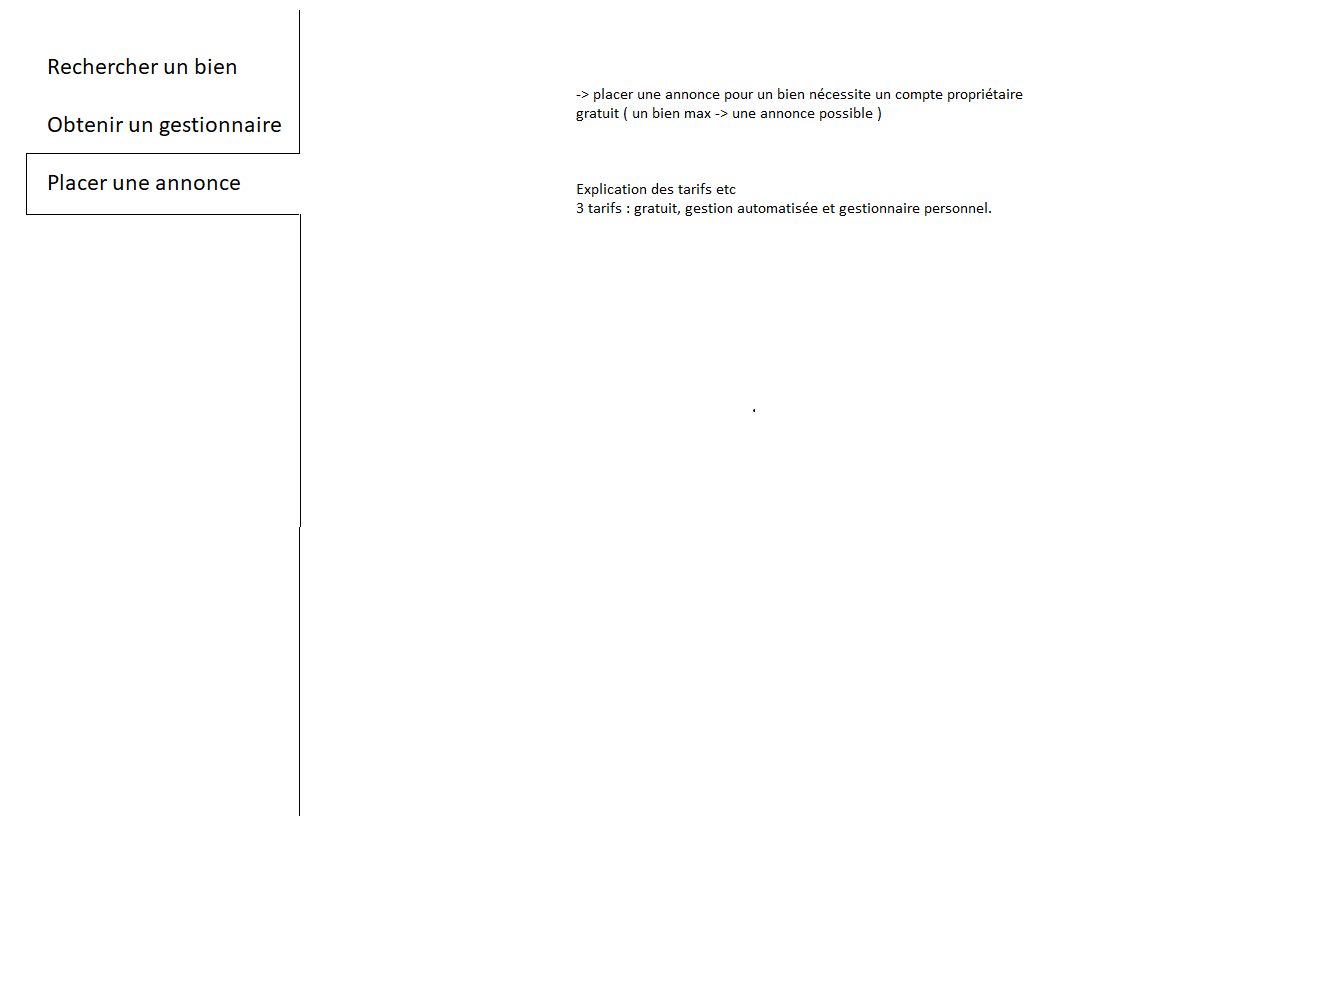
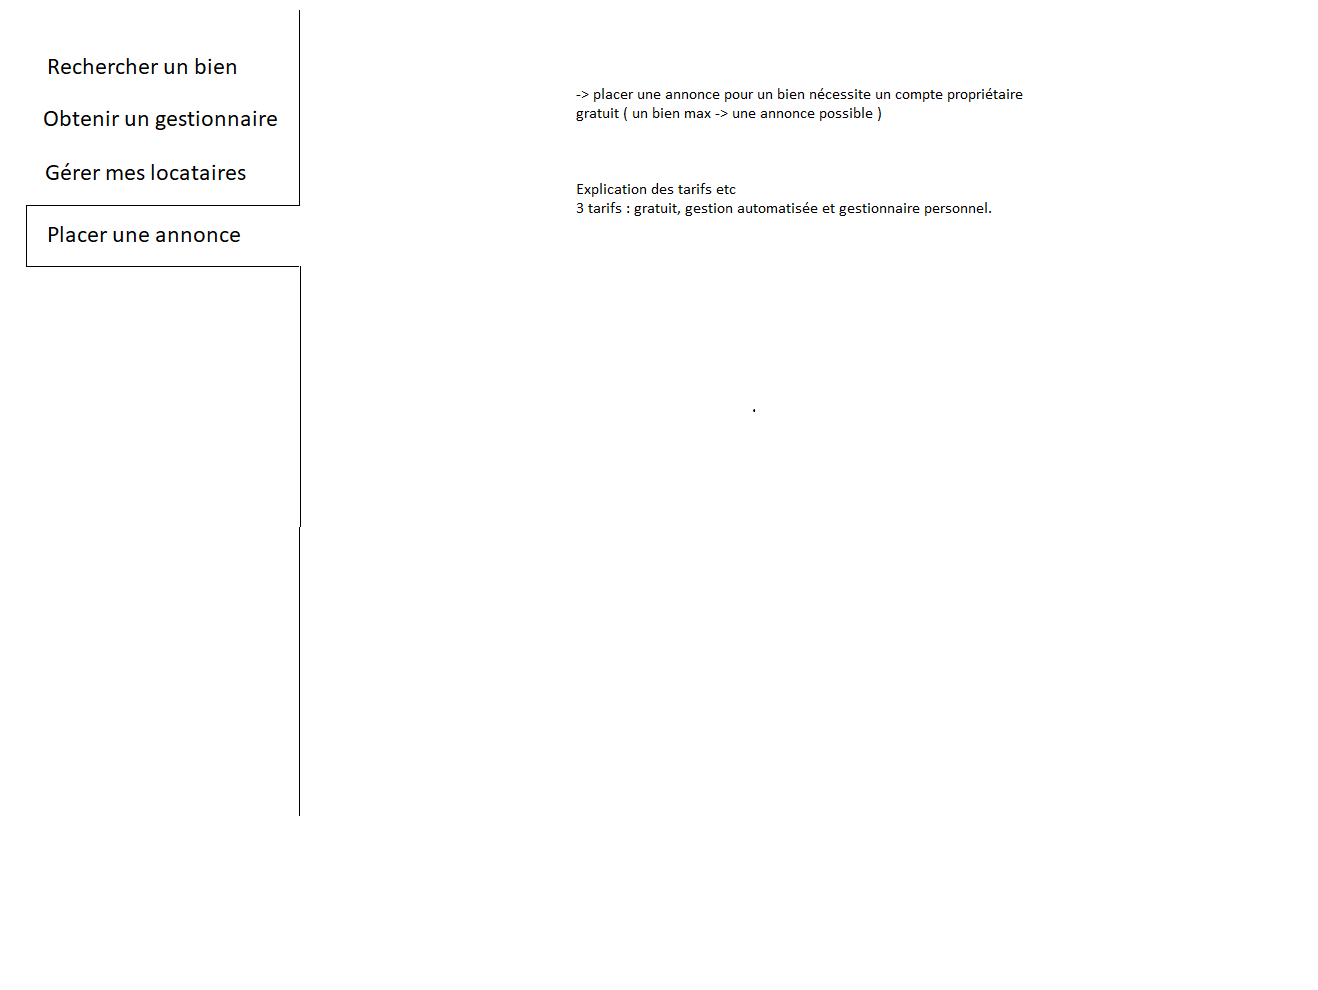
divers

Changed region(s): [[0.0311, 0.0909, 0.2178, 0.2424]]

diff --git a/windows_home/home.html b/windows_home/home.html
@@ -1,0 +1,66 @@
+<!doctype html>
+<html lang="fr">
+<head>
+  <meta charset="utf-8">
+  <title>Propr.io</title>
+  <script type="text/javascript">
+
+   var search_tracker = 'search';
+
+   function change_search(){
+   var image = document.getElementById('search');
+   if(search_tracker=='search'){
+   image.src='img/home/map.png';
+   search_tracker='map';
+   }
+   else{
+   image.src='img/home/search.png';
+   search_tracker='search';
+   }
+   }
+
+   var menu_tracker = 'search';
+
+   function change_menu(){
+   var image = document.getElementById('menu');
+   if(menu_tracker=='search'){
+   image.src='img/home/leftmenu/leftmenu_gestionnaire.png';
+   menu_tracker='gestionnaire';
+   }
+   else if(menu_tracker=='gestionnaire'){
+   image.src='img/home/leftmenu/leftmenu_annonce.png';
+   menu_tracker='meslocataires';
+   }
+   else if(menu_tracker=='meslocataires'){
+   image.src='img/home/leftmenu/leftmenu_meslocataires.png';
+   menu_tracker='annonce';
+   }
+   else if(menu_tracker=='annonce'){
+   image.src='img/home/leftmenu/leftmenu_rechercher.png';
+   menu_tracker='search';
+   }
+   }
+
+   var en_tete_tracker = 'closed';
+
+   function change_en_tete(){
+   var image = document.getElementById('en_tete');
+   if(en_tete_tracker=='closed'){
+   image.src='img/home/en_tete_login_open.png';
+   en_tete_tracker='open';
+   }
+   else if(en_tete_tracker=='open'){
+   image.src='img/home/en_tete_login_closed.png';
+   en_tete_tracker='closed';
+   }
+   }
+
+   </script>
+</head>
+<body>
+<img  id ="en_tete" class="header" src="img/home/en_tete_login_closed.png" style="width:100%; margin-bottom: 10px;" onclick="change_en_tete();"/>
+<img id="menu" src="img/home/leftmenu/leftmenu_rechercher.png" style="float:left;" onclick="change_menu();"/>
+<img src="img/home/search.png" alt="Search" id="search" style="width:35%; float:left; margin-top:3%;" onclick="change_search();">
+<img src="img/home/resultats.png" style="float:right; width:40%;"/>
+</body>
+</html>

diff --git a/password.js b/password.js
@@ -5,7 +5,7 @@ var pass1 = prompt('Please Enter Your Password',' ');
 while (testV < 3) {
 if (!pass1)
 history.go(-1);
-if (pass1.toLowerCase() == "immoweb#banqueroute") {
+if (pass1.toLowerCase() == "becode") {
 alert('You Got it Right!');
 window.open('main_page.html');
 break;
